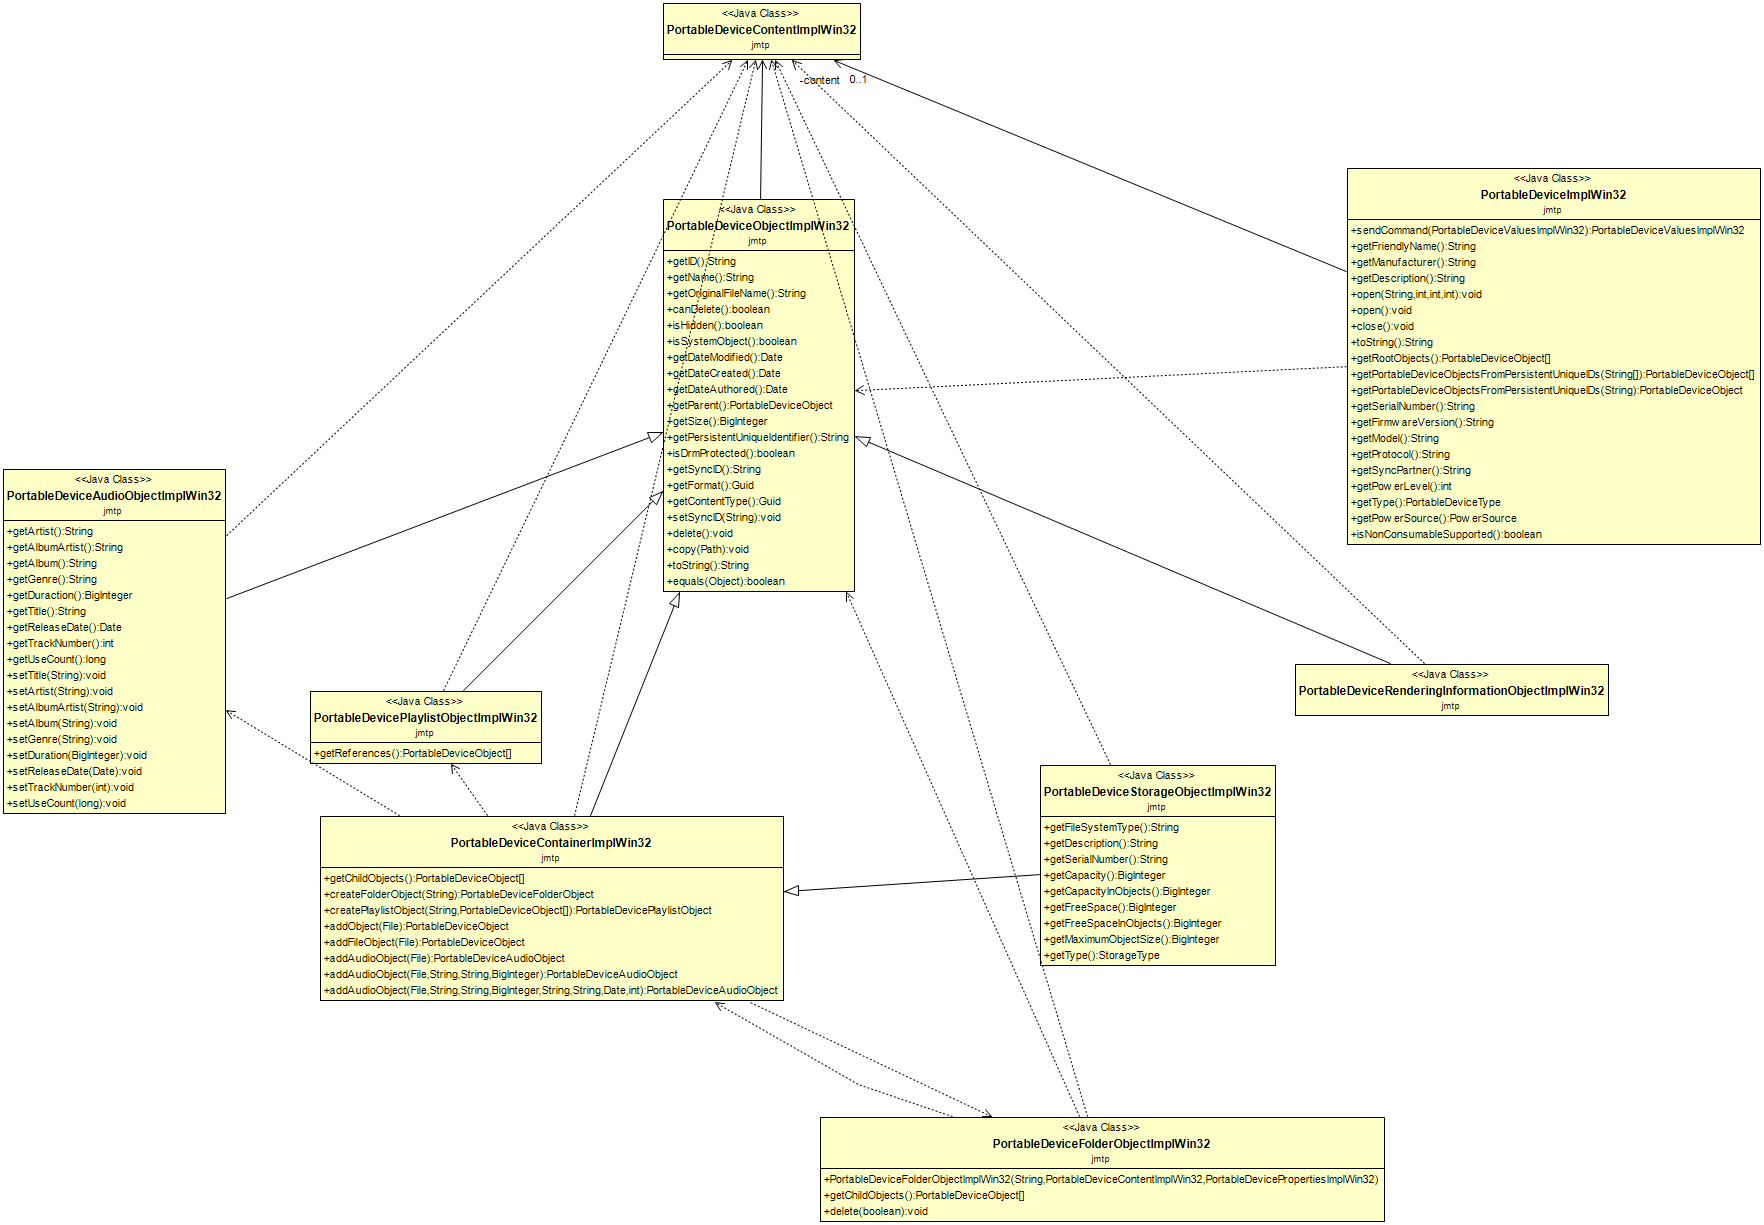
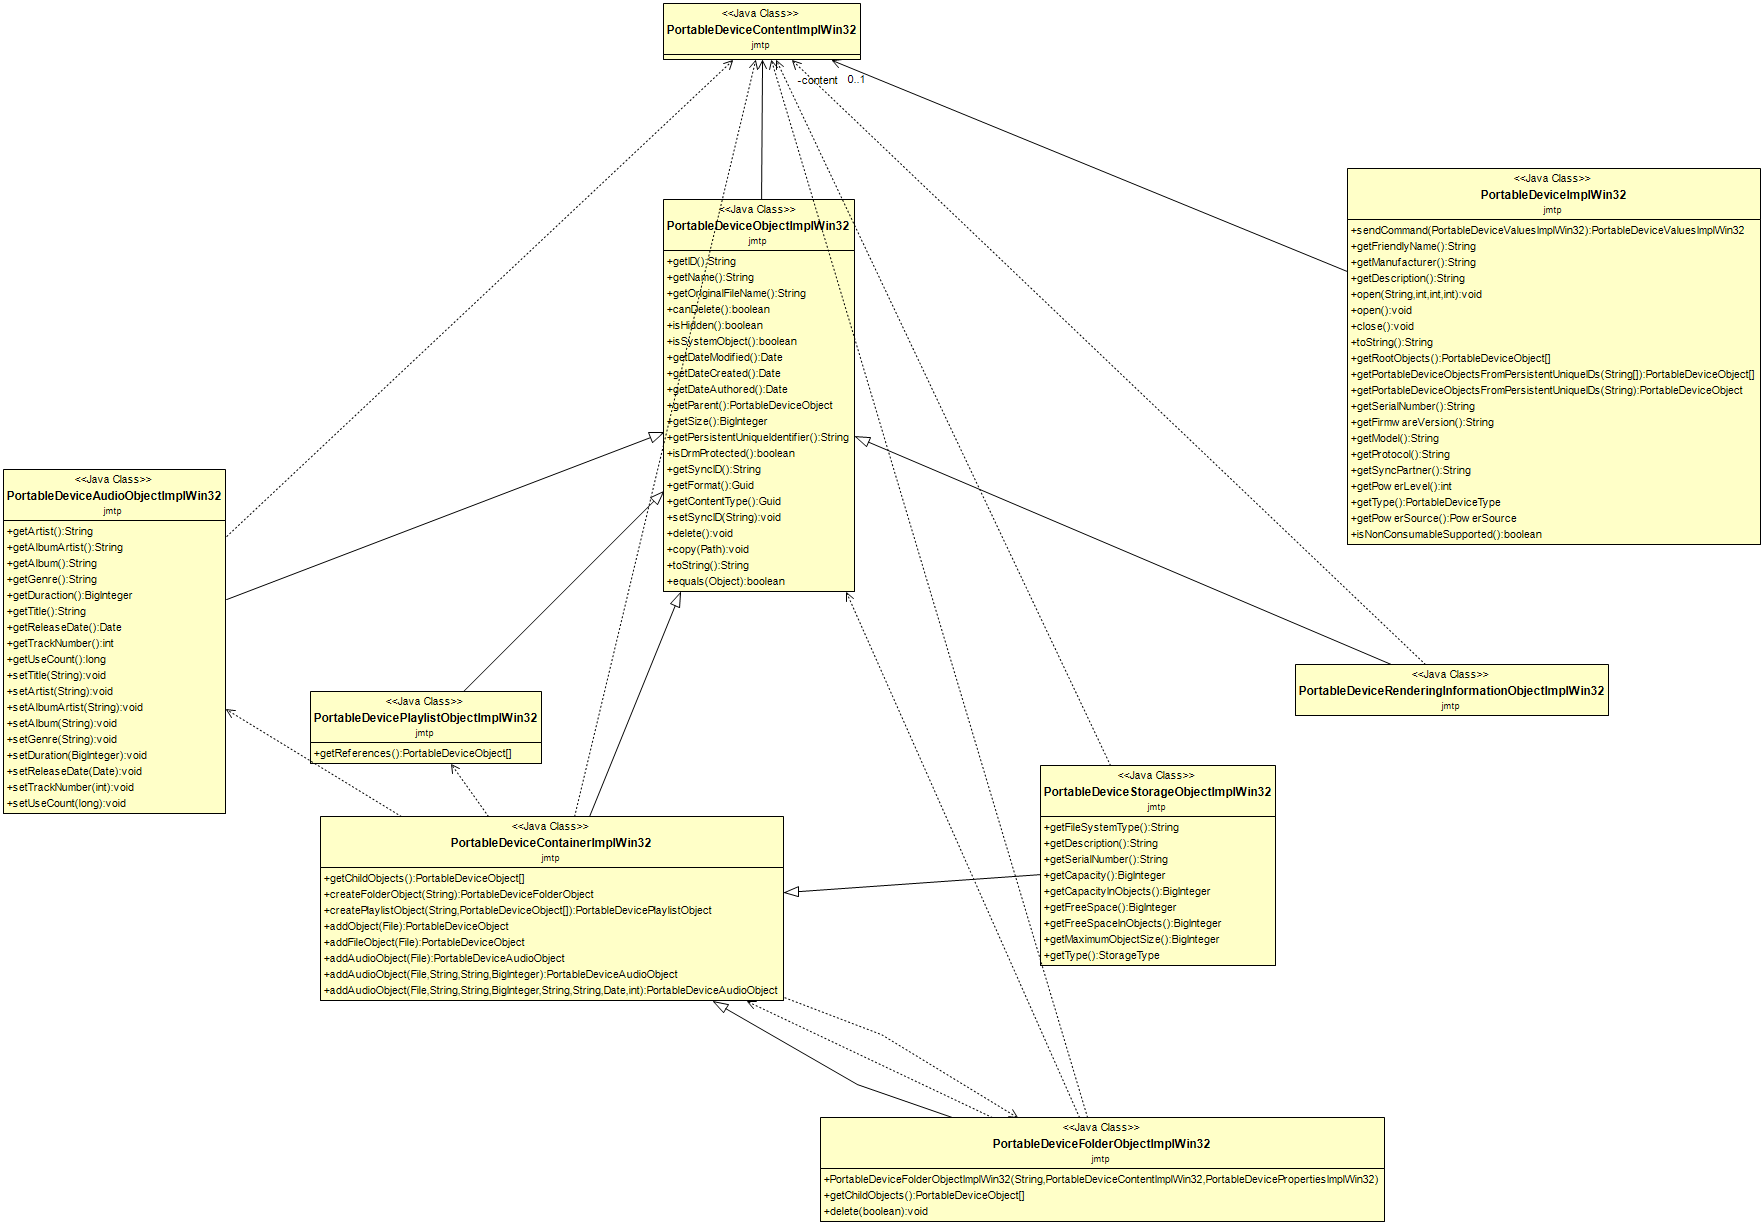
addFileObject instead of addObject

Changed region(s): [[0.4365, 0.062, 0.4989, 0.0931]]

diff --git a/java/test/jmtp/MtpTest.java b/java/test/jmtp/MtpTest.java
@@ -52,7 +52,7 @@ public class MtpTest {
 
 		assertEquals(1, devices.size());
 		assertTrue(Files.exists(Paths.get(dir, filename)));
-		PortableDeviceObject object = devices.get(0).addObject(Paths.get(dir, filename).toFile());
+		PortableDeviceObject object = devices.get(0).addFileObject(Paths.get(dir, filename).toFile());
 		object.delete();
 
 	}
@@ -92,7 +92,7 @@ public class MtpTest {
 		for (File file : fdir.listFiles()) {
 			System.out.println(file);
 			try {
-				PortableDeviceObject object = devices.get(0).addObject(file);
+				PortableDeviceObject object = devices.get(0).addFileObject(file);
 				System.out.println(object.getFormat());
 				System.out.println(object.getContentType());
 				if (object.getOriginalFileName().endsWith("test")) {

diff --git a/java/src/jmtp/PortableDeviceContainerObject.java b/java/src/jmtp/PortableDeviceContainerObject.java
@@ -14,7 +14,7 @@ import java.util.Date;
 public interface PortableDeviceContainerObject extends PortableDeviceObject {
 	
     public PortableDeviceObject[] getChildObjects();
-    public PortableDeviceObject addObject(File file) throws FileNotFoundException, IOException;
+    public PortableDeviceObject addFileObject(File file) throws FileNotFoundException, IOException;
     public PortableDeviceAudioObject addAudioObject(File file)  throws FileNotFoundException, IOException;
     public PortableDeviceAudioObject addAudioObject(File file, 
     		String artist, String title, BigInteger duration) throws FileNotFoundException, IOException;
